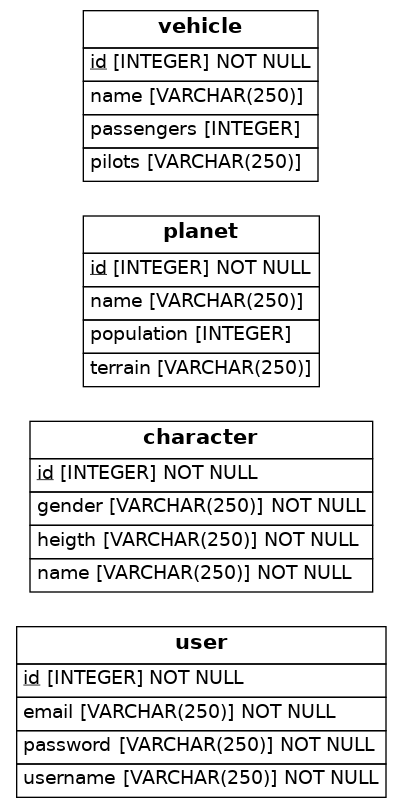
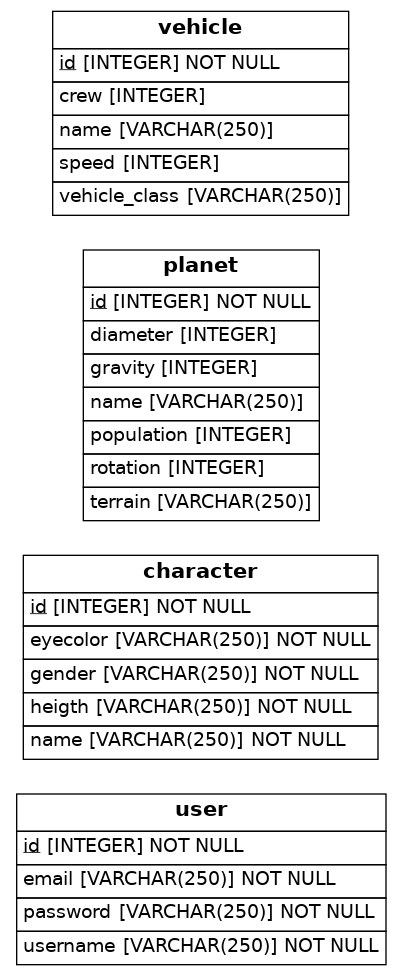
review on properties

Changed region(s): [[0.0299, 0.0, 0.9875, 1.0]]

diff --git a/src/models.py b/src/models.py
@@ -26,6 +26,7 @@ class Character(Base):
     name = Column(String(250), nullable=False)
     gender = Column(String(250), nullable=False)
     heigth = Column(String(250), nullable=False)
+    eyecolor = Column(String(250), nullable=False)
     
 
 class Planet(Base):
@@ -36,7 +37,10 @@ class Planet(Base):
     name = Column(String(250))
     terrain = Column(String(250))
     population = Column(Integer)
-   
+    diameter = Column(Integer)
+    rotation = Column(Integer)
+    gravity = Column(Integer)
+  
 
 
 class Vehicle(Base):
@@ -45,8 +49,9 @@ class Vehicle(Base):
     # Notice that each column is also a normal Python instance attribute.
     id = Column(Integer, primary_key=True)
     name = Column(String(250))
-    passengers = Column(Integer)
-    pilots = Column(String(250))
+    crew = Column(Integer)
+    speed = Column(Integer)
+    vehicle_class = Column(String(250))
 
     def to_dict(self):
         return {}
